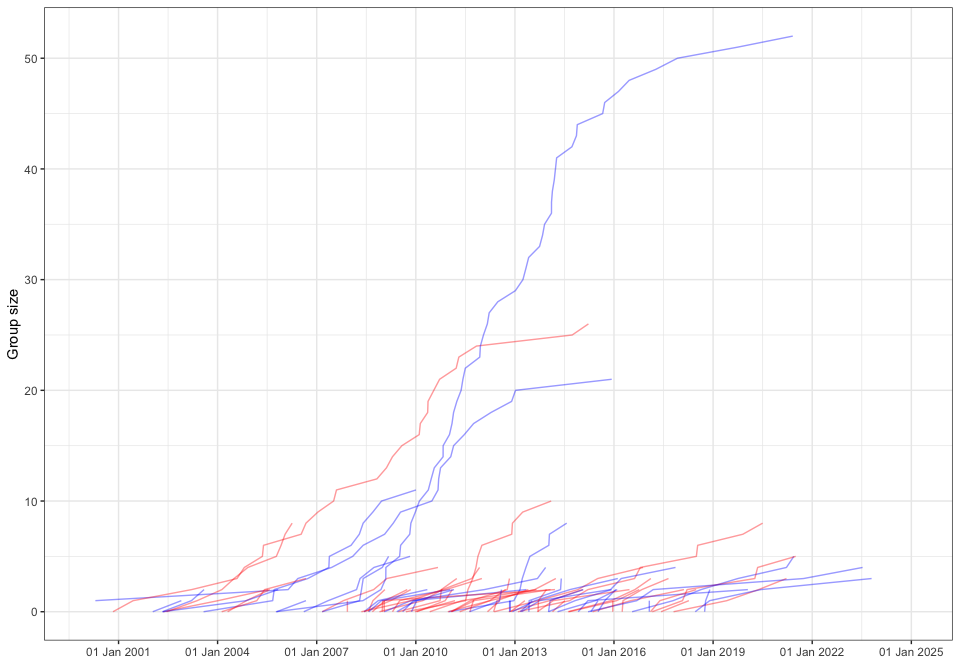
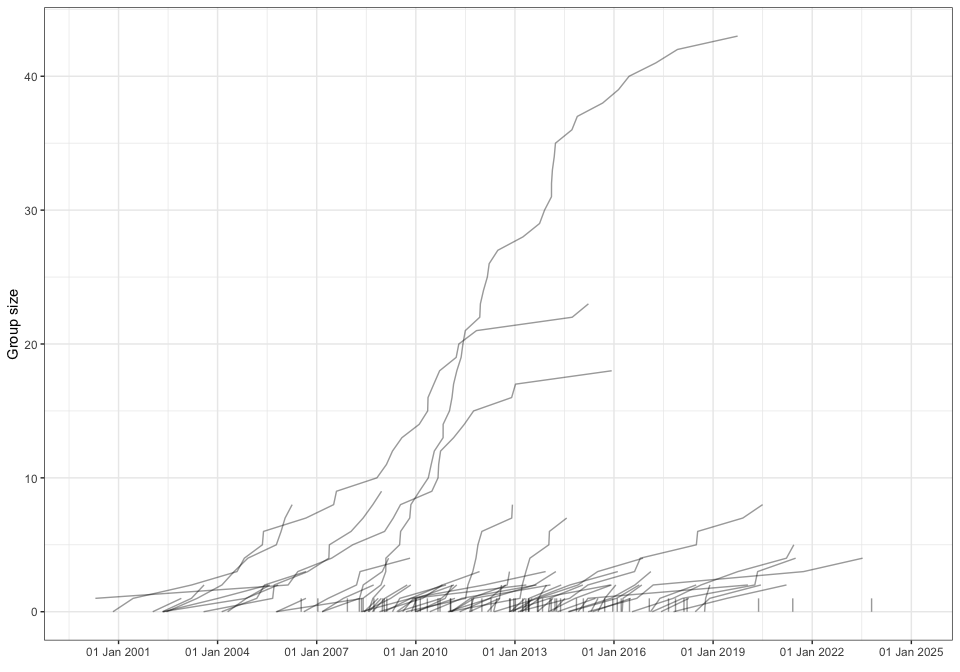
Updating tutorial.

diff --git a/Examples_and_plotting_methods/Simple_example/Basic_plotting.md b/Examples_and_plotting_methods/Simple_example/Basic_plotting.md
@@ -10,13 +10,18 @@
     categories.](#estimating-local-transmission-linages-for-phylogeographic-data-with-two-categories)
 -   [Simulate tip data with two
     locations](#simulate-phylogeographic-data-with-two-locations--norway-and-rest-of-the-world--row-)
+-   [Running LineageHomology](#running-lineagehomology)
 -   [Plotting transmission lineages](#plot-lineage-densities-over-time)
     -   [Color the lineages after
         location](#we-can-color-the-groups-by-the-state-they-are-in--and-restrict-the-plotted-groups-to-sizes-larger-than-1-4--and-10)
 -   [Plot cumulative lineage size over
     time.](#plot-cumulative-lineage-size-over-time)
-    -   [Again we can add color to the groups by specifying
-        it.](#again-we-can-add-color-to-the-groups-by-specifying-it)
+    -   [Color the lineages after
+        location](#again-we-can-add-color-to-the-groups-by-specifying-it)
+-   [Sample transmission lineages
+    probabilistically](#probabilistic-counting-of-transmission-lineages)
+-   [Produce confidence interval on the largest transmission
+    lineage](#estimate-size-of-largest-transmission-lineage)
 
 ``` r
 #Load needed packages
@@ -70,6 +75,40 @@ have a probability that &gt; 50% for the same geographical state. It
 also returns the number of singletons, dates and has a number of
 different plotting methods to display the results.
 
+#### Running LineageHomology
+
+Next we run LineageHomology. The inputs should take this format.
+
+``` r
+tree_test
+#> 
+#> Phylogenetic tree with 300 tips and 299 internal nodes.
+#> 
+#> Tip labels:
+#>   t214, t151, t158, t56, t40, t13, ...
+#> 
+#> Rooted; includes branch lengths.
+head(fit1$lik.anc)
+#>          Norway       RoW
+#> [1,] 0.19739205 0.8026080
+#> [2,] 0.09659401 0.9034060
+#> [3,] 0.09487369 0.9051263
+#> [4,] 0.69688117 0.3031188
+#> [5,] 0.43888708 0.5611129
+#> [6,] 0.42001122 0.5799888
+head( to.matrix(trait, seq=c("Norway", "RoW")))
+#>      Norway RoW
+#> t214      1   0
+#> t151      0   1
+#> t158      0   1
+#> t56       0   1
+#> t40       1   0
+#> t13       0   1
+```
+
+Note that the node probabilities of the tips must have rownames that
+match the tips of of the phylogeny.
+
 ``` r
 Result = LineageHomology(tree_test, ace_nodes=fit1$lik.anc,
                         ace_tips = to.matrix(trait, seq=c("Norway", "RoW")), start_time=2000)
@@ -95,77 +134,96 @@ LineageHomology outputs a list of lists.
 
 ``` r
 names(Result)
-#> [1] "Import_LocalTrans" "Lineage_sizes"     "Taxa_names"       
-#> [4] "MRCA's"            "lineage_state"
+#> [1] "Import_LocalTrans"   "Lineage_sizes"       "Taxa_names"         
+#> [4] "MRCA's"              "lineage_state"       "Halfedge_over_tmrca"
 Result$Import_LocalTrans
-#> [1]  77 223
+#> [1] 120 180
 Result$lineage_state
-#> Norway    RoW Norway Norway    RoW    RoW Norway Norway Norway    RoW    RoW 
-#>      1      2      1      1      2      2      1      1      1      2      2 
-#>    RoW Norway Norway Norway Norway    RoW    RoW Norway Norway    RoW Norway 
-#>      2      1      1      1      1      2      2      1      1      2      1 
-#> Norway Norway    RoW Norway Norway    RoW    RoW    RoW Norway Norway Norway 
-#>      1      1      2      1      1      2      2      2      1      1      1 
-#>    RoW Norway Norway Norway Norway Norway Norway    RoW Norway Norway Norway 
-#>      2      1      1      1      1      1      1      2      1      1      1 
-#> Norway    RoW Norway Norway    RoW Norway    RoW    RoW    RoW Norway    RoW 
-#>      1      2      1      1      2      1      2      2      2      1      2 
-#>    RoW Norway    RoW Norway Norway    RoW    RoW Norway    RoW    RoW Norway 
-#>      2      1      2      1      1      2      2      1      2      2      1 
-#>    RoW    RoW    RoW Norway    RoW Norway    RoW Norway    RoW    RoW Norway 
-#>      2      2      2      1      2      1      2      1      2      2      1
+#> Norway    RoW Norway Norway Norway Norway    RoW    RoW Norway    RoW Norway 
+#>      1      2      1      1      1      1      2      2      1      2      1 
+#>    RoW Norway    RoW    RoW    RoW    RoW Norway Norway Norway Norway Norway 
+#>      2      1      2      2      2      2      1      1      1      1      1 
+#>    RoW Norway    RoW Norway Norway Norway    RoW Norway Norway Norway Norway 
+#>      2      1      2      1      1      1      2      1      1      1      1 
+#> Norway    RoW Norway    RoW Norway    RoW    RoW Norway Norway    RoW    RoW 
+#>      1      2      1      2      1      2      2      1      1      2      2 
+#> Norway    RoW Norway Norway Norway Norway    RoW Norway Norway Norway Norway 
+#>      1      2      1      1      1      1      2      1      1      1      1 
+#>    RoW    RoW Norway Norway Norway Norway Norway Norway Norway    RoW Norway 
+#>      2      2      1      1      1      1      1      1      1      2      1 
+#> Norway Norway    RoW Norway    RoW Norway Norway Norway    RoW Norway    RoW 
+#>      1      1      2      1      2      1      1      1      2      1      2 
+#> Norway    RoW Norway Norway    RoW Norway Norway    RoW    RoW    RoW Norway 
+#>      1      2      1      1      2      1      1      2      2      2      1 
+#>    RoW    RoW Norway    RoW Norway    RoW Norway    RoW    RoW Norway    RoW 
+#>      2      2      1      2      1      2      1      2      2      1      2 
+#> Norway Norway    RoW Norway    RoW    RoW    RoW Norway Norway    RoW    RoW 
+#>      1      1      2      1      2      2      2      1      1      2      2 
+#>    RoW    RoW Norway    RoW Norway    RoW    RoW Norway Norway    RoW 
+#>      2      2      1      2      1      2      2      1      1      2
 Result$Lineage_sizes
-#>  [1]  1 11  2  8 21  1  4  2  3  5  8  1  3  8  2  1  3  2  1  2  2  2  2  4  2
-#> [26] 26  2  1 52  4  2  2  1  3  2 10  3  5  3  1  2  2  2  3  4  2  3  2  5  1
-#> [51]  1  3  2  1  4  2  2  2  2  1  1  2  3  4  2  2  2  2  5  2  1  1  1  2  1
-#> [76]  2  3
+#>   [1]  1  9  1  2  1  8 18  1  3  1  1  1  2  1  5  7  1  3  1  8  2  1  2  1  1
+#>  [26]  1  1  2  2  1  2  1  1  1  1  2  1  1  1  1 23  2  1 43  1  3  1  2  2  1
+#>  [51]  2  1  2  1  8  1  1  3  1  1  1  1  1  4  1  1  1  2  1  1  1  1  2  1  1
+#>  [76]  2  1  4  2  3  2  4  1  1  1  3  2  1  4  2  2  2  1  1  1  1  2  3  2  1
+#> [101]  1  2  2  2  2  4  2  1  1  1  1  1  1  1  2  1  1  1  2  1
 head(Result$Taxa_names)
 #> $`Lineage no: 1`
 #> [1] "t214"
 #> 
 #> $`Lineage no: 2`
-#>  [1] "t151" "t158" "t56"  "t40"  "t13"  "t78"  "t90"  "t67"  "t121" "t179"
-#> [11] "t283"
+#> [1] "t151" "t158" "t56"  "t13"  "t78"  "t67"  "t121" "t179" "t283"
 #> 
 #> $`Lineage no: 3`
-#> [1] "t173" "t237"
+#> [1] "t40"
 #> 
 #> $`Lineage no: 4`
-#> [1] "t298" "t77"  "t142" "t141" "t18"  "t51"  "t12"  "t145"
+#> [1] "t173" "t237"
 #> 
 #> $`Lineage no: 5`
-#>  [1] "t274" "t43"  "t191" "t132" "t202" "t278" "t30"  "t112" "t106" "t61" 
-#> [11] "t21"  "t286" "t101" "t251" "t186" "t184" "t32"  "t11"  "t122" "t231"
-#> [21] "t247"
+#> [1] "t90"
 #> 
 #> $`Lineage no: 6`
-#> [1] "t168"
+#> [1] "t298" "t77"  "t142" "t141" "t18"  "t51"  "t12"  "t145"
 Result$`MRCA's`
-#>  [1] 2007.930 2003.575 2008.563 2002.453 2000.000 2012.839 2008.899 2015.350
-#>  [9] 2017.801 2016.547 2010.997 2017.068 2014.607 2013.090 2012.813 2012.869
-#> [17] 2013.422 2014.017 2012.170 2008.436 2009.600 2010.026 2008.982 2007.166
-#> [25] 2008.433 2000.831 2002.355 2002.036 2005.762 2009.045 2008.684 2014.641
-#> [33] 2017.424 2018.459 2011.636 2009.699 2011.071 2017.157 2016.249 2011.083
-#> [41] 2014.290 2011.329 2012.356 2009.467 2012.375 2002.329 2004.124 2004.303
-#> [49] 2006.608 2009.043 2005.787 2012.925 2014.917 2014.136 2015.214 2018.742
-#> [57] 2017.105 2015.514 2013.682 2015.963 2015.299 2014.016 2010.969 2013.198
-#> [65] 2009.868 2008.353 2011.624 2002.336 2007.166 2010.421 2012.856 2009.975
-#> [73] 2009.423 2013.700 2013.159 2008.576 2009.292
+#>   [1] 2007.930 2003.575 2008.290 2008.563 2010.003 2002.453 2000.000 2012.839
+#>   [9] 2008.899 2011.696 2015.350 2018.117 2017.801 2020.377 2016.547 2010.997
+#>  [17] 2017.068 2014.607 2012.965 2013.090 2012.813 2012.869 2013.422 2014.381
+#>  [25] 2014.017 2015.072 2012.170 2008.436 2009.600 2008.405 2010.026 2012.277
+#>  [33] 2011.058 2008.982 2014.212 2007.166 2008.433 2010.349 2009.121 2010.671
+#>  [41] 2000.831 2002.355 2002.036 2005.762 2015.719 2009.045 2013.681 2008.684
+#>  [49] 2014.641 2017.424 2018.459 2023.799 2011.636 2013.835 2009.699 2013.235
+#>  [57] 2014.098 2011.071 2013.331 2013.415 2013.012 2014.263 2021.411 2017.157
+#>  [65] 2018.212 2009.985 2014.863 2016.249 2017.649 2011.083 2014.290 2016.099
+#>  [73] 2011.329 2012.356 2013.407 2009.467 2010.733 2012.375 2002.329 2004.124
+#>  [81] 2004.303 2006.608 2008.731 2009.043 2005.787 2012.925 2014.917 2014.136
+#>  [89] 2015.214 2018.742 2017.105 2015.514 2013.682 2016.469 2015.963 2015.299
+#>  [97] 2014.016 2010.969 2013.198 2017.861 2016.219 2009.868 2008.353 2011.624
+#> [105] 2002.336 2007.166 2010.421 2008.355 2006.529 2007.034 2010.135 2012.856
+#> [113] 2009.975 2009.423 2013.700 2013.159 2008.576 2011.045 2009.292 2012.001
 Result$lineage_state
-#> Norway    RoW Norway Norway    RoW    RoW Norway Norway Norway    RoW    RoW 
-#>      1      2      1      1      2      2      1      1      1      2      2 
-#>    RoW Norway Norway Norway Norway    RoW    RoW Norway Norway    RoW Norway 
-#>      2      1      1      1      1      2      2      1      1      2      1 
-#> Norway Norway    RoW Norway Norway    RoW    RoW    RoW Norway Norway Norway 
-#>      1      1      2      1      1      2      2      2      1      1      1 
-#>    RoW Norway Norway Norway Norway Norway Norway    RoW Norway Norway Norway 
-#>      2      1      1      1      1      1      1      2      1      1      1 
-#> Norway    RoW Norway Norway    RoW Norway    RoW    RoW    RoW Norway    RoW 
-#>      1      2      1      1      2      1      2      2      2      1      2 
-#>    RoW Norway    RoW Norway Norway    RoW    RoW Norway    RoW    RoW Norway 
-#>      2      1      2      1      1      2      2      1      2      2      1 
-#>    RoW    RoW    RoW Norway    RoW Norway    RoW Norway    RoW    RoW Norway 
-#>      2      2      2      1      2      1      2      1      2      2      1
+#> Norway    RoW Norway Norway Norway Norway    RoW    RoW Norway    RoW Norway 
+#>      1      2      1      1      1      1      2      2      1      2      1 
+#>    RoW Norway    RoW    RoW    RoW    RoW Norway Norway Norway Norway Norway 
+#>      2      1      2      2      2      2      1      1      1      1      1 
+#>    RoW Norway    RoW Norway Norway Norway    RoW Norway Norway Norway Norway 
+#>      2      1      2      1      1      1      2      1      1      1      1 
+#> Norway    RoW Norway    RoW Norway    RoW    RoW Norway Norway    RoW    RoW 
+#>      1      2      1      2      1      2      2      1      1      2      2 
+#> Norway    RoW Norway Norway Norway Norway    RoW Norway Norway Norway Norway 
+#>      1      2      1      1      1      1      2      1      1      1      1 
+#>    RoW    RoW Norway Norway Norway Norway Norway Norway Norway    RoW Norway 
+#>      2      2      1      1      1      1      1      1      1      2      1 
+#> Norway Norway    RoW Norway    RoW Norway Norway Norway    RoW Norway    RoW 
+#>      1      1      2      1      2      1      1      1      2      1      2 
+#> Norway    RoW Norway Norway    RoW Norway Norway    RoW    RoW    RoW Norway 
+#>      1      2      1      1      2      1      1      2      2      2      1 
+#>    RoW    RoW Norway    RoW Norway    RoW Norway    RoW    RoW Norway    RoW 
+#>      2      2      1      2      1      2      1      2      2      1      2 
+#> Norway Norway    RoW Norway    RoW    RoW    RoW Norway Norway    RoW    RoW 
+#>      1      1      2      1      2      2      2      1      1      2      2 
+#>    RoW    RoW Norway    RoW Norway    RoW    RoW Norway Norway    RoW 
+#>      2      2      1      2      1      2      2      1      1      2
 ```
 
 \#Make a treemap plot to get a quick overview of the lineages.
@@ -174,7 +232,7 @@ Result$lineage_state
 LineageHomology::treemap_lineagehomology(Result)
 ```
 
-<img src="man/figures/README-unnamed-chunk-6-1.png" width="100%" />
+<img src="man/figures/README-unnamed-chunk-7-1.png" width="100%" />
 
 ##### Plot lineage densities over time
 
@@ -185,7 +243,7 @@ Result_lineage_info = LineageHomology::lineage_info(Result,name_date)
 LineageHomology::ridgeplot_lineagedensities(Result_lineage_info=Result_lineage_info,groups_larger_than = 1,datelims=c("2000-01-01","2025-01-01","3 year"),color_by_state = F)
 ```
 
-<img src="man/figures/README-unnamed-chunk-7-1.png" width="100%" />
+<img src="man/figures/README-unnamed-chunk-8-1.png" width="100%" />
 
 ##### We can color the groups by the state they are in, and restrict the plotted groups to sizes larger than 1,4, and 10
 
@@ -193,19 +251,19 @@ LineageHomology::ridgeplot_lineagedensities(Result_lineage_info=Result_lineage_i
 LineageHomology::ridgeplot_lineagedensities(Result_lineage_info=Result_lineage_info,groups_larger_than = 1,datelims=c("2000-01-01","2025-01-01","3 year"),color_by_state = T)
 ```
 
-<img src="man/figures/README-unnamed-chunk-8-1.png" width="100%" />
+<img src="man/figures/README-unnamed-chunk-9-1.png" width="100%" />
 
 ``` r
 LineageHomology::ridgeplot_lineagedensities(Result_lineage_info=Result_lineage_info,groups_larger_than = 4,datelims=c("2000-01-01","2025-01-01","3 year"),color_by_state = T)
 ```
 
-<img src="man/figures/README-unnamed-chunk-8-2.png" width="100%" />
+<img src="man/figures/README-unnamed-chunk-9-2.png" width="100%" />
 
 ``` r
 LineageHomology::ridgeplot_lineagedensities(Result_lineage_info=Result_lineage_info,groups_larger_than = 10,datelims=c("2000-01-01","2025-01-01","3 year"),color_by_state = T)
 ```
 
-<img src="man/figures/README-unnamed-chunk-8-3.png" width="100%" />
+<img src="man/figures/README-unnamed-chunk-9-3.png" width="100%" />
 
 ##### Plot cumulative lineage size over time.
 
@@ -213,7 +271,7 @@ LineageHomology::ridgeplot_lineagedensities(Result_lineage_info=Result_lineage_i
 LineageHomology::lineage_growth_cumulative(Result_lineage_info = Result_lineage_info, datelims=c("2000-01-01","2025-01-01","3 year"))
 ```
 
-<img src="man/figures/README-unnamed-chunk-9-1.png" width="100%" />
+<img src="man/figures/README-unnamed-chunk-10-1.png" width="100%" />
 
 ##### Again we can add color to the groups by specifying it.
 
@@ -221,4 +279,60 @@ LineageHomology::lineage_growth_cumulative(Result_lineage_info = Result_lineage_
 LineageHomology::lineage_growth_cumulative(Result_lineage_info = Result_lineage_info, datelims=c("2000-01-01","2025-01-01","3 year"),color_by_state = T)
 ```
 
-<img src="man/figures/README-unnamed-chunk-10-1.png" width="100%" />
+<img src="man/figures/README-unnamed-chunk-11-1.png" width="100%" />
+
+### Probabilistic counting of transmission lineages
+
+For all the figures shown above, the transmission lineage division was
+done by division of lineages at points where a transition is estimated
+with more than 50 percent probability. If one wishes to rather count
+transmission lineages by sampling from the observed probabilities, one
+can use the function LineageHomology\_w\_uncertainty.
+
+``` r
+Result1 = LineageHomology_w_uncertainty_v2(tree_test, ace_nodes=fit1$lik.anc,
+                        ace_tips = to.matrix(trait, seq=c("Norway", "RoW")), start_time=2000)
+LineageHomology::treemap_lineagehomology(Result1)
+```
+
+<img src="man/figures/README-unnamed-chunk-12-1.png" width="100%" />
+
+``` r
+Result2 =  LineageHomology_w_uncertainty_v2(tree_test, ace_nodes=fit1$lik.anc,
+                        ace_tips = to.matrix(trait, seq=c("Norway", "RoW")), start_time=2000)
+LineageHomology::treemap_lineagehomology(Result2)
+```
+
+<img src="man/figures/README-unnamed-chunk-12-2.png" width="100%" />
+
+As this figures show, the division of lineages will vary according to
+the sampled states of some of the nodes. This can be useful for
+producing confidence limits on e.g. the size of the largest lineage.
+
+#### Estimate size of largest transmission lineage
+
+We can use pbreplicate to counts transmission lineages probabilistically
+many times to obtain confidence intervals (or, in this case, a
+distribution) for the size of the largest transmission lineage.
+
+``` r
+library(pbapply)
+multi_counts = pbreplicate(
+  1000,
+  LineageHomology::LineageHomology_w_uncertainty_v2(
+    tree=tree_test,
+    ace_nodes=fit1$lik.anc,
+    ace_tips = to.matrix(trait, seq=c("Norway", "RoW")),
+    start_time = 2000
+  )
+)
+
+largest_lineage = c()
+for(i in 1:1000) {
+  largest_lineage = c(largest_lineage, max(multi_counts[,i]$Lineage_sizes))
+}
+
+hist(largest_lineage, breaks=100, xlim=c(0,40), probability = F, main="Size of largest transmission lineage",xlab="Size", ylab="Probability")
+```
+
+<img src="man/figures/README-unnamed-chunk-13-1.png" width="100%" />
